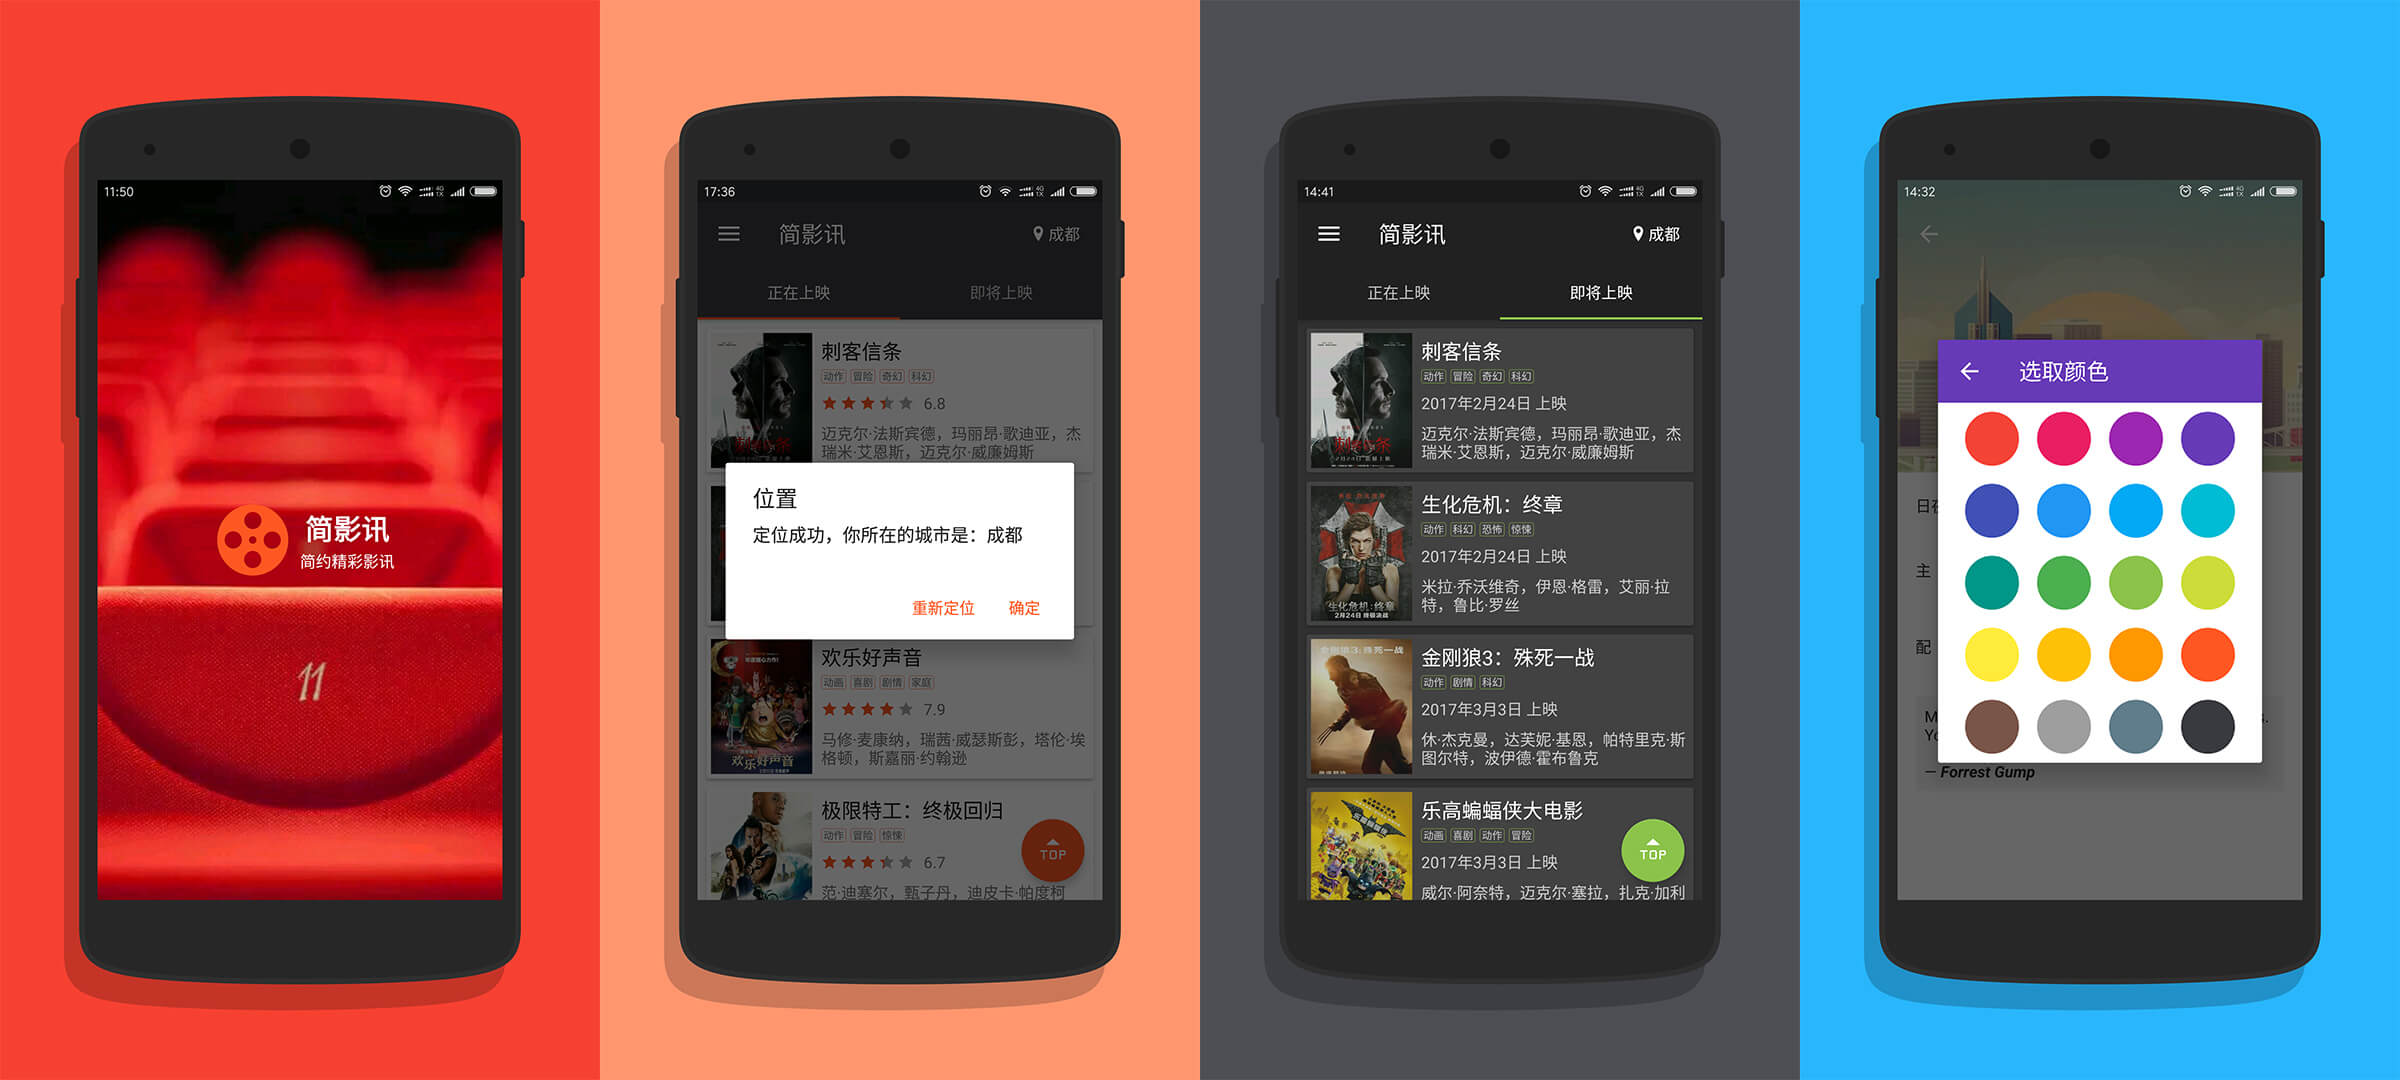
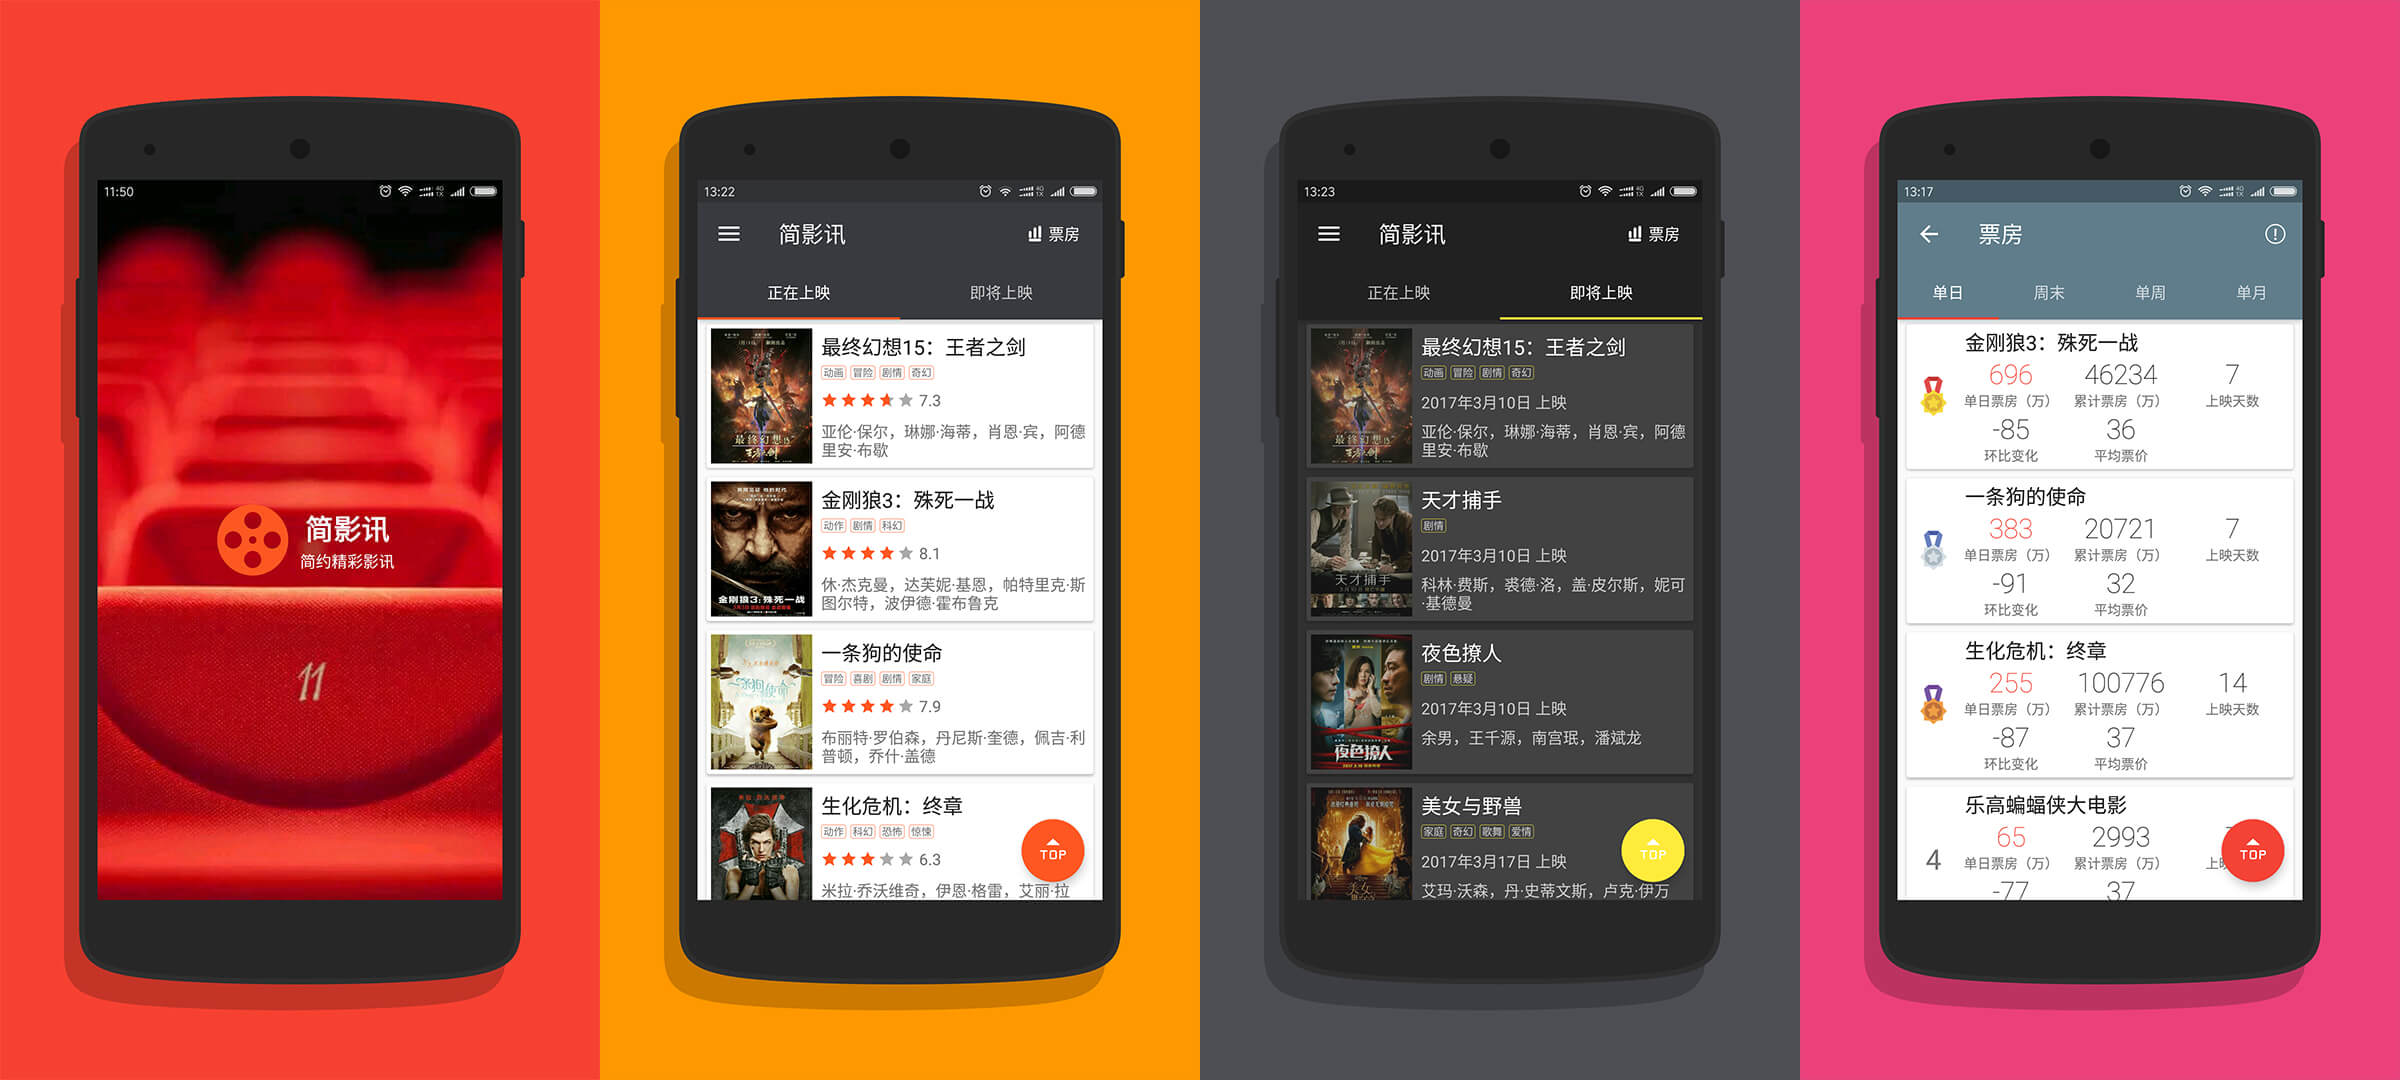
Update README.md

diff --git a/README.md b/README.md
@@ -1,5 +1,5 @@
 # 简影讯
->**这是一枚展示当前城市正在上映和即将上映的热门电影的小小应用。简洁的界面高颜值的设计，多色主题自由搭配更有体贴的夜间模式。简约，优雅，精彩，即看即走，全都来自处女座作者的“斤斤计较”。希望你喜欢。o(*￣︶￣*)o**    
+>**这是一枚展示所在城市热映电影资讯和票房的小小应用。简洁的界面高颜值的设计，多色主题自由搭配更有体贴的夜间模式。简约，优雅，精彩，即看即走，全都来自处女座作者的“斤斤计较”。希望你喜欢。o(*￣︶￣*)o**
 
 ![poster1](https://github.com/woxingxiao/GracefulMovies/blob/master/images/poster1.jpg)
 ![poster2](https://github.com/woxingxiao/GracefulMovies/blob/master/images/poster2.jpg)  
@@ -17,16 +17,14 @@
   
 ##升级日志  
 ###最新：
-1. 新增意见反馈入口，[谷歌在线表单问卷调查之神器](https://docs.google.com/forms/d/1cP5G5lfikMCK3YmZH8zOwQX_rr0cFjN5g3FamYNrhGw/edit?usp=drive_web)；
-2. 以网络接口定位替换高德SDK定位，摆脱CPU平台束缚，减小apk尺寸；
-3. 使用[AndResGuard](https://github.com/shwenzhang/AndResGuard)进行资源混淆，进一步缩小apk容量。
-4. 混淆最佳实践，apk减小36%
+1. 重大更新，新增票房排行榜；
+2. 启动加速，已知漏洞修复。
 
 ###历史：
 [**UpdateLog**](https://github.com/woxingxiao/GracefulMovies/blob/master/UpdateLog.md)  
 
 ##关于测试
-如果你想运行项目，先clone到本地，修改包名，再到[聚合数据](https://www.juhe.cn/)申请_Appkey_（需要实名认证，所以私有key不便公开，望见谅）。若嫌麻烦可下载上面链接的apk成品，再参考代码。定位无需再申请，不必理会。  
+如果你想运行项目，先clone到本地，修改包名，再到[聚合数据](https://www.juhe.cn/)和[易源数据](https://www.showapi.com/)申请_Appkey_（需要实名认证，所以私有key不便公开，望见谅）。若嫌麻烦可下载上面链接的apk成品，再参考代码。  
 #致谢
 感谢开源的力量！
 开源库：  
@@ -44,37 +42,38 @@
 - [`StarWars.Android`](https://github.com/Yalantis/StarWars.Android)
 - [`SeeWeather`](https://github.com/xcc3641/SeeWeather)
 
-感谢聚合数据提供免费API接口。  
-感谢一位仙女在界面审美上的建设性意见，笔芯❤。  
-感谢下列酷站和工具为本项目提供帮助：  
+聚合数据提供影讯数据支持。
+易源数据提供票房数据支持。
+感谢一位仙女在界面审美上的建设性意见，笔芯❤。
+感谢下列酷站和工具为本项目提供帮助：
 - [iconfont](http://iconfont.cn) 提供海量矢量图标资源
 - [dribbble](https://dribbble.com) 提供海量的图片资源。项目中有两张图片来自[JustinMezzell](https://dribbble.com/JustinMezzell)
 - [tinypng](https://tinypng.com) 提供免费并高质量的图片压缩服务
-- [智图](http://zhitu.isux.us) 提供图片在线转`webp`格式服务
+- [智图](http://zhitu.isux.us) 提供图片转`webp`格式服务
 - [AndroidAssetStudio](https://romannurik.github.io/AndroidAssetStudio) 提供在线图标制作
 - 手机应用软件_Screener_生成漂亮的手机外观截屏图片
 
-**本项目中数据来自聚合数据，版权归聚合数据。图片资源均收集自网络，版权属于原作者。如有侵权，告知后会立即删除。**
+**本项目中影讯数据来自聚合数据，版权归聚合数据；票房数据来自易源数据，版权归易源数据。图片资源均收集自网络，版权属于原作者。如有侵权，告知后会立即删除。**
 #彩蛋
-本项目在主题界面埋了一颗彩蛋，进入界面会随机加载一段经典电影台词。  
+本项目在主题界面埋了一颗彩蛋，进入界面会随机加载一段经典电影台词。
 
-![screenshot1](https://github.com/woxingxiao/GracefulMovies/blob/master/images/screenshot1.jpg)  
+![screenshot1](https://github.com/woxingxiao/GracefulMovies/blob/master/images/screenshot1.jpg)
 
-如果你有喜欢的电影台词，不论中外老新，欢迎添加并`pull request`，有可能会被收录到下个版本里。入口在此：[arrays_quotes_of_movies.xml](https://github.com/woxingxiao/GracefulMovies/blob/master/app/src/main/res/values/arrays_quotes_of_movies.xml)，文件里有详细的格式说明，have fun.  
+如果你有喜欢的电影台词，不论中外新旧，欢迎添加并`pull request`，有可能会被收录到下个版本里。入口在此：[arrays_quotes_of_movies.xml](https://github.com/woxingxiao/GracefulMovies/blob/master/app/src/main/res/values/arrays_quotes_of_movies.xml)，文件里有详细的格式说明，have fun.
 #结语
-本项目出自完美主义+强迫症的处女座作者之手，从界面交互设计，到图片大小优化，到图标的选取，每一处细节都讲究，计较，实为诚（过）意（瘾）之作。如果你喜欢本项目，请右上角star鼓励作者，或者推荐给周围的人。  
+本项目出自完美主义+强迫症的处女座作者之手，从界面交互设计，到图片大小优化，到图标的选取，每一处细节都讲究，计较，实为诚（过）意（瘾）之作。如果你喜欢本项目，请右上角star鼓励作者，或者推荐给周围的人。
 
 老板们请走VIP打赏通道，金额随意：
 
 ![alipay](https://github.com/woxingxiao/GracefulMovies/blob/master/images/alipay.jpg) ![wxpay](https://github.com/woxingxiao/GracefulMovies/blob/master/images/wxpay.jpg)
 
-人生苦短，请选择科学上网。推荐本人自用的，稳定高速。[推介链接](https://portal.shadowsocks.com.hk/aff.php?aff=8881)。
+本人才疏学浅，不足之处欢迎指正。技术交流或合作可邮件：Chauvet910@gmail.com
 
-技术交流或合作可邮件：Chauvet910@gmail.com  
+**作者保留权利**
 
-本人才疏学浅，不足之处欢迎指正。  
+--------
+> **人生苦短，请选择科学上网。推荐一下本人正在使用的，稳定高速，便宜好用。[推介链接](https://portal.shadowsocks.com.hk/aff.php?aff=8881)**
 
-**作者保留权利**  
 #License
 ```
    Copyright 2017 woxingxiao

diff --git a/UpdateLog.md b/UpdateLog.md
@@ -1,4 +1,8 @@
-##1.0.2 (Build 6)
+##1.1.0 (Build 11)
+1. 重大更新，新增票房排行榜；
+2. 启动加速，已知漏洞修复。
+
+##1.0.2 (Build 8)
 1. 新增意见反馈入口，[谷歌在线表单问卷调查之神器](https://docs.google.com/forms/d/1cP5G5lfikMCK3YmZH8zOwQX_rr0cFjN5g3FamYNrhGw/edit?usp=drive_web)；
 2. 以网络接口定位替换高德SDK定位，摆脱CPU平台束缚，减小apk尺寸；
 3. 使用[AndResGuard](https://github.com/shwenzhang/AndResGuard)进行资源混淆，进一步缩小apk容量。
